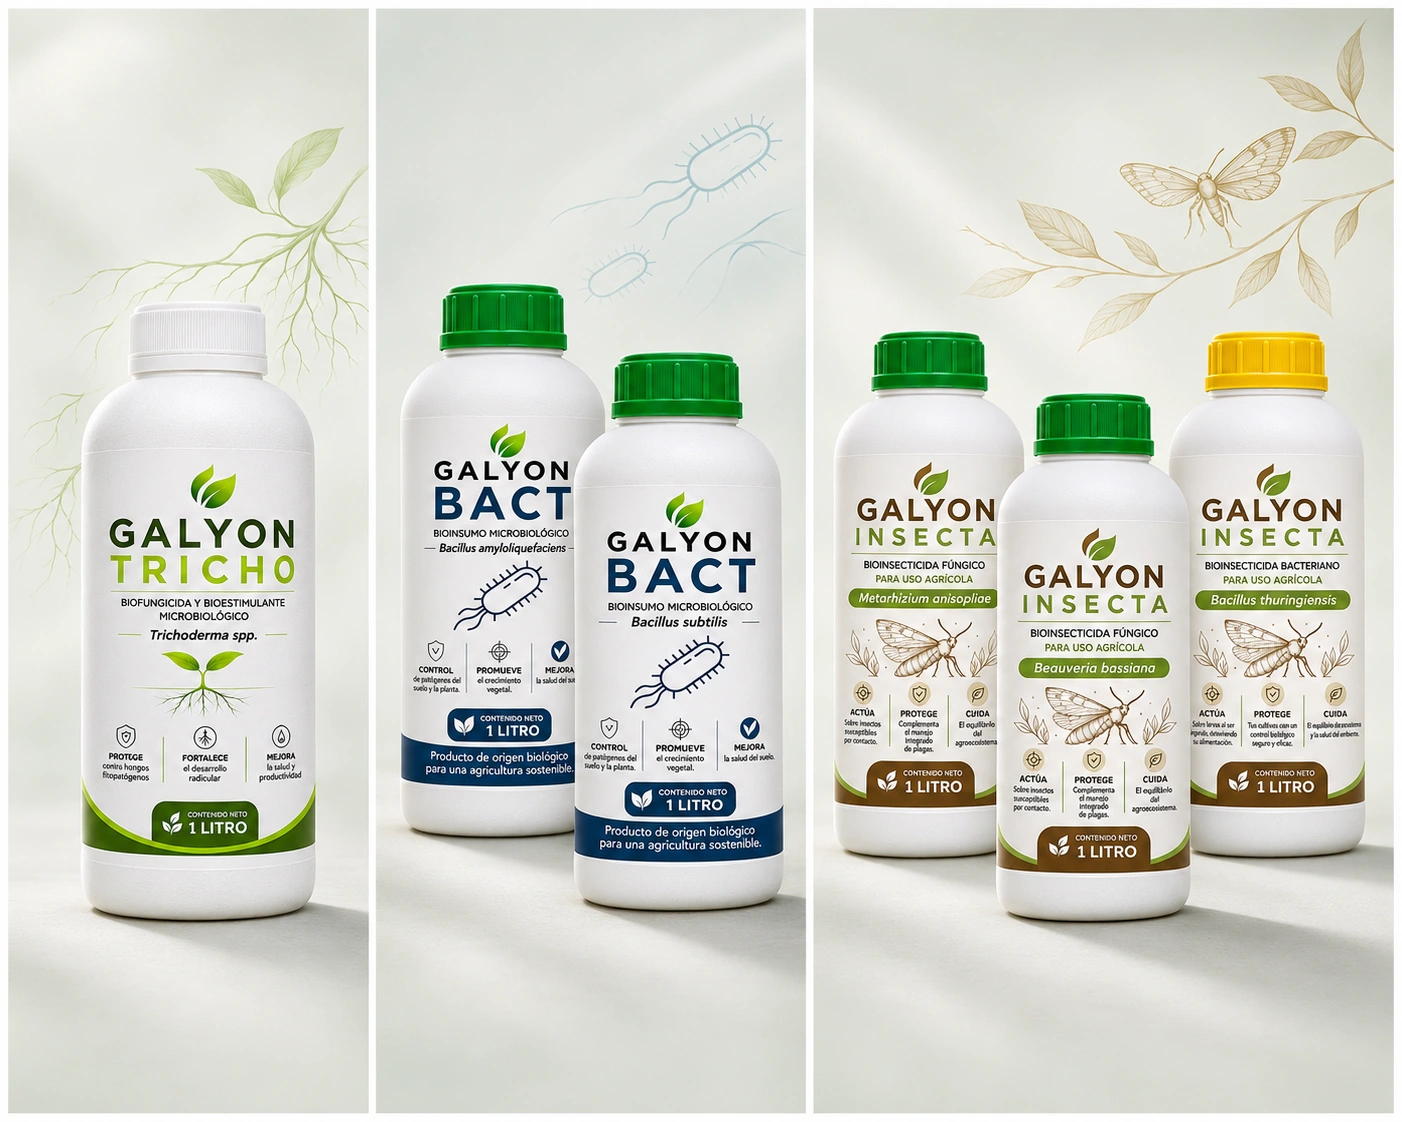
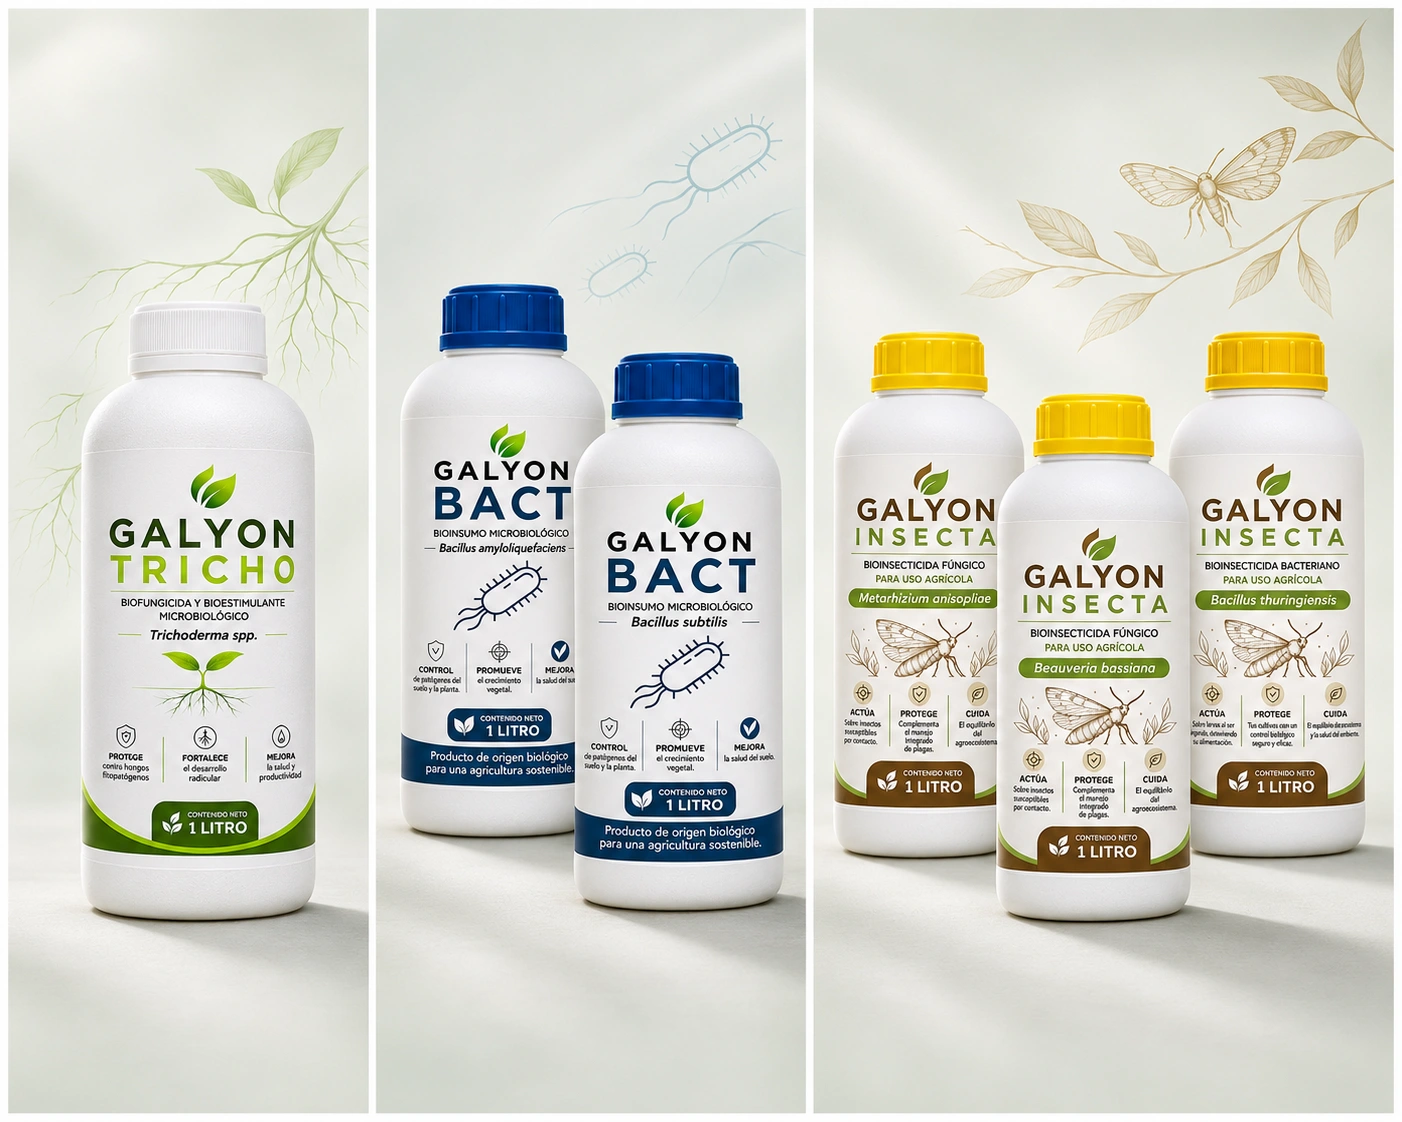
Correct BACT caps to blue and INSECTA caps to yellow

diff --git a/index.html b/index.html
@@ -124,9 +124,9 @@
 <div class="catalog-chapter" data-site-panel="lineas">
 <section class="products section" id="lineas"><div class="wrap"><div class="section-heading"><div><div class="section-waypoint"><span aria-hidden="true">03</span><strong>PRODUCTOS GALYON</strong></div><h2>Soluciones para cada <span>necesidad.</span></h2></div><p>Abre una tarjeta para ver sus presentaciones y elegir la formulación que necesitas. Si tienes dudas, te orientamos.</p></div>
       <div class="product-grid">
-        <article class="product-card tricho"><div class="product-top"><span class="pill">GALYON TRICHO</span><span class="product-tag">Raíces &amp; suelo</span></div><a class="product-visual product-visual-link" href="#detalle-tricho" aria-label="Ver presentaciones de GALYON TRICHO"><svg class="line-photo line-photo-studio" viewBox="0 0 570 760" role="img" aria-label="GALYON TRICHO, línea de bioinsumos para raíces y salud del suelo" preserveAspectRatio="xMidYMid meet"><svg x="105" y="0" width="360" height="760" viewBox="8 220 360 760" overflow="hidden"><image href="assets/lineas-estudio-aprobadas.webp?v=5.8.14" width="1402" height="1122" /></svg></svg><span class="product-visual-hint" aria-hidden="true">Ver presentaciones</span></a><div class="product-details"><h3>Raíces fuertes. Producción con futuro.</h3><p>Un aliado para cuidar lo que ocurre bajo tierra. Trichoderma spp. contribuye al manejo de hongos del suelo susceptibles y acompaña el establecimiento del cultivo y la exploración de agua y nutrientes.</p><div class="product-bottom"><div><small>Productos de la línea desde 1 litro</small><strong data-product-price="tricho-trichoderma">$20</strong><span class="product-price-unit"> / litro</span></div><a class="view-line" href="#detalle-tricho" aria-label="Conocer GALYON TRICHO">Ver presentaciones</a></div></div></article>
-        <article class="product-card bact"><div class="product-top"><span class="pill">GALYON BACT</span><span class="product-tag">Protección microbiológica</span></div><a class="product-visual product-visual-link" href="#detalle-bact" aria-label="Ver presentaciones de GALYON BACT"><svg class="line-photo line-photo-studio" viewBox="0 0 570 760" role="img" aria-label="GALYON BACT, línea de bacterias benéficas para el manejo preventivo del cultivo" preserveAspectRatio="xMidYMid meet"><svg x="70" y="0" width="430" height="760" viewBox="376 220 430 760" overflow="hidden"><image href="assets/lineas-estudio-aprobadas.webp?v=5.8.14" width="1402" height="1122" /></svg></svg><span class="product-visual-hint" aria-hidden="true">Ver presentaciones</span></a><div class="product-details"><h3>La prevención también se cultiva.</h3><p>Anticípate a los problemas con bacterias benéficas. BACT complementa la protección del tejido sano frente a patógenos susceptibles y apoya el aprovechamiento de nutrientes, según la formulación y las condiciones del cultivo.</p><div class="product-bottom"><div><small>Productos de la línea desde 1 litro</small><strong data-product-price="bact-subtilis">$20</strong><span class="product-price-unit"> / litro</span></div><a class="view-line" href="#detalle-bact" aria-label="Conocer GALYON BACT">Ver presentaciones</a></div></div></article>
-        <article class="product-card insecta"><div class="product-top"><span class="pill">GALYON INSECTA</span><span class="product-tag">Manejo de insectos</span></div><a class="product-visual product-visual-link" href="#detalle-insecta" aria-label="Ver presentaciones de GALYON INSECTA"><svg class="line-photo line-photo-studio" viewBox="0 0 570 760" role="img" aria-label="GALYON INSECTA, línea de bioinsumos para manejo biológico de insectos plaga" preserveAspectRatio="xMidYMid meet"><svg x="0" y="0" width="570" height="760" viewBox="824 220 570 760" overflow="hidden"><image href="assets/lineas-estudio-aprobadas.webp?v=5.8.14" width="1402" height="1122" /></svg></svg><span class="product-visual-hint" aria-hidden="true">Ver presentaciones</span></a><div class="product-details"><h3>Que las plagas no se lleven tu cosecha.</h3><p>Mantén a raya las plagas objetivo y dale más oportunidades a tu cosecha. INSECTA reúne aliados microbiológicos para reducir la presión de insectos susceptibles y defender el fruto de tu esfuerzo.</p><div class="product-bottom"><div><small>Productos de la línea desde 1 litro</small><strong data-product-price="insecta-bt">$20</strong><span class="product-price-unit"> / litro</span></div><a class="view-line" href="#detalle-insecta" aria-label="Conocer GALYON INSECTA">Ver presentaciones</a></div></div></article>
+        <article class="product-card tricho"><div class="product-top"><span class="pill">GALYON TRICHO</span><span class="product-tag">Raíces &amp; suelo</span></div><a class="product-visual product-visual-link" href="#detalle-tricho" aria-label="Ver presentaciones de GALYON TRICHO"><svg class="line-photo line-photo-studio" viewBox="0 0 570 760" role="img" aria-label="GALYON TRICHO, línea de bioinsumos para raíces y salud del suelo" preserveAspectRatio="xMidYMid meet"><svg x="105" y="0" width="360" height="760" viewBox="8 220 360 760" overflow="hidden"><image href="assets/lineas-estudio-aprobadas.webp?v=5.8.15" width="1402" height="1122" /></svg></svg><span class="product-visual-hint" aria-hidden="true">Ver presentaciones</span></a><div class="product-details"><h3>Raíces fuertes. Producción con futuro.</h3><p>Un aliado para cuidar lo que ocurre bajo tierra. Trichoderma spp. contribuye al manejo de hongos del suelo susceptibles y acompaña el establecimiento del cultivo y la exploración de agua y nutrientes.</p><div class="product-bottom"><div><small>Productos de la línea desde 1 litro</small><strong data-product-price="tricho-trichoderma">$20</strong><span class="product-price-unit"> / litro</span></div><a class="view-line" href="#detalle-tricho" aria-label="Conocer GALYON TRICHO">Ver presentaciones</a></div></div></article>
+        <article class="product-card bact"><div class="product-top"><span class="pill">GALYON BACT</span><span class="product-tag">Protección microbiológica</span></div><a class="product-visual product-visual-link" href="#detalle-bact" aria-label="Ver presentaciones de GALYON BACT"><svg class="line-photo line-photo-studio" viewBox="0 0 570 760" role="img" aria-label="GALYON BACT, línea de bacterias benéficas para el manejo preventivo del cultivo" preserveAspectRatio="xMidYMid meet"><svg x="70" y="0" width="430" height="760" viewBox="376 220 430 760" overflow="hidden"><image href="assets/lineas-estudio-aprobadas.webp?v=5.8.15" width="1402" height="1122" /></svg></svg><span class="product-visual-hint" aria-hidden="true">Ver presentaciones</span></a><div class="product-details"><h3>La prevención también se cultiva.</h3><p>Anticípate a los problemas con bacterias benéficas. BACT complementa la protección del tejido sano frente a patógenos susceptibles y apoya el aprovechamiento de nutrientes, según la formulación y las condiciones del cultivo.</p><div class="product-bottom"><div><small>Productos de la línea desde 1 litro</small><strong data-product-price="bact-subtilis">$20</strong><span class="product-price-unit"> / litro</span></div><a class="view-line" href="#detalle-bact" aria-label="Conocer GALYON BACT">Ver presentaciones</a></div></div></article>
+        <article class="product-card insecta"><div class="product-top"><span class="pill">GALYON INSECTA</span><span class="product-tag">Manejo de insectos</span></div><a class="product-visual product-visual-link" href="#detalle-insecta" aria-label="Ver presentaciones de GALYON INSECTA"><svg class="line-photo line-photo-studio" viewBox="0 0 570 760" role="img" aria-label="GALYON INSECTA, línea de bioinsumos para manejo biológico de insectos plaga" preserveAspectRatio="xMidYMid meet"><svg x="0" y="0" width="570" height="760" viewBox="824 220 570 760" overflow="hidden"><image href="assets/lineas-estudio-aprobadas.webp?v=5.8.15" width="1402" height="1122" /></svg></svg><span class="product-visual-hint" aria-hidden="true">Ver presentaciones</span></a><div class="product-details"><h3>Que las plagas no se lleven tu cosecha.</h3><p>Mantén a raya las plagas objetivo y dale más oportunidades a tu cosecha. INSECTA reúne aliados microbiológicos para reducir la presión de insectos susceptibles y defender el fruto de tu esfuerzo.</p><div class="product-bottom"><div><small>Productos de la línea desde 1 litro</small><strong data-product-price="insecta-bt">$20</strong><span class="product-price-unit"> / litro</span></div><a class="view-line" href="#detalle-insecta" aria-label="Conocer GALYON INSECTA">Ver presentaciones</a></div></div></article>
       </div><div class="catalog-note"><span>¿Buscas otra formulación de nuestras líneas?</span><a href="https://wa.me/593968933445?text=Hola%20GALYON%2C%20quisiera%20consultar%20por%20otras%20formulaciones%20disponibles." target="_blank" rel="noopener">Consulta nuestro catálogo completo <span class="icon-arrow" aria-hidden="true"><svg viewBox="0 0 16 16"><path d="M4 12L12 4"></path><path d="M6 4h6v6"></path></svg></span></a></div>
     </div></section>
 <section class="rice-product-section section" aria-labelledby="sustrato-title"><div class="wrap"><div class="rice-product" id="tricho-sustrato"><div class="rice-product-text"><span class="eyebrow">GALYON TRICHO · NUEVA PRESENTACIÓN</span><h3 id="sustrato-title">Toda la fuerza de TRICHO. Ahora en sustrato.</h3><p><strong>Tu aliado microbiológico para el cuidado de raíces y suelo, en una presentación sólida.</strong> TRICHO en sustrato contiene <em>Trichoderma spp.</em> y ofrece una alternativa para preparar aplicaciones biológicas con orientación personalizada según tu cultivo.</p><div class="rice-product-points"><span>Formato sólido</span><span>Preparación guiada</span><span>Asesoría GALYON incluida</span></div><div class="rice-price"><strong data-product-price="tricho-sustrato-1kg">$25</strong><span>Presentación de 1 kg</span></div><button type="button" class="catalog-add" data-add-sku="tricho-sustrato-1kg">Agregar al pedido</button><a target="_blank" rel="noopener" class="soil-sales-cta" href="https://wa.me/593968933445?text=Hola%20GALYON%2C%20quiero%20comprar%20TRICHO%20en%20sustrato%20%28presentaci%C3%B3n%20de%201%20kg%29.%20%C2%BFEst%C3%A1%20disponible%3F%20Mi%20cultivo%20es%3A%20____%20y%20necesito%20env%C3%ADo%20a%3A%20____.">Consultar y pedir por WhatsApp <span class="icon-arrow" aria-hidden="true"><svg viewBox="0 0 16 16"><path d="M4 12L12 4"></path><path d="M6 4h6v6"></path></svg></span></a><p class="rice-footnote">Disponibilidad, dosificación, forma de preparación y envío sujetos a confirmación por nuestro equipo.</p></div><img src="assets/tricho-sustrato.webp" alt="Funda transparente sin etiqueta con presentación sólida de TRICHO en sustrato" loading="lazy" width="1105" height="1280"></div></div></section>
